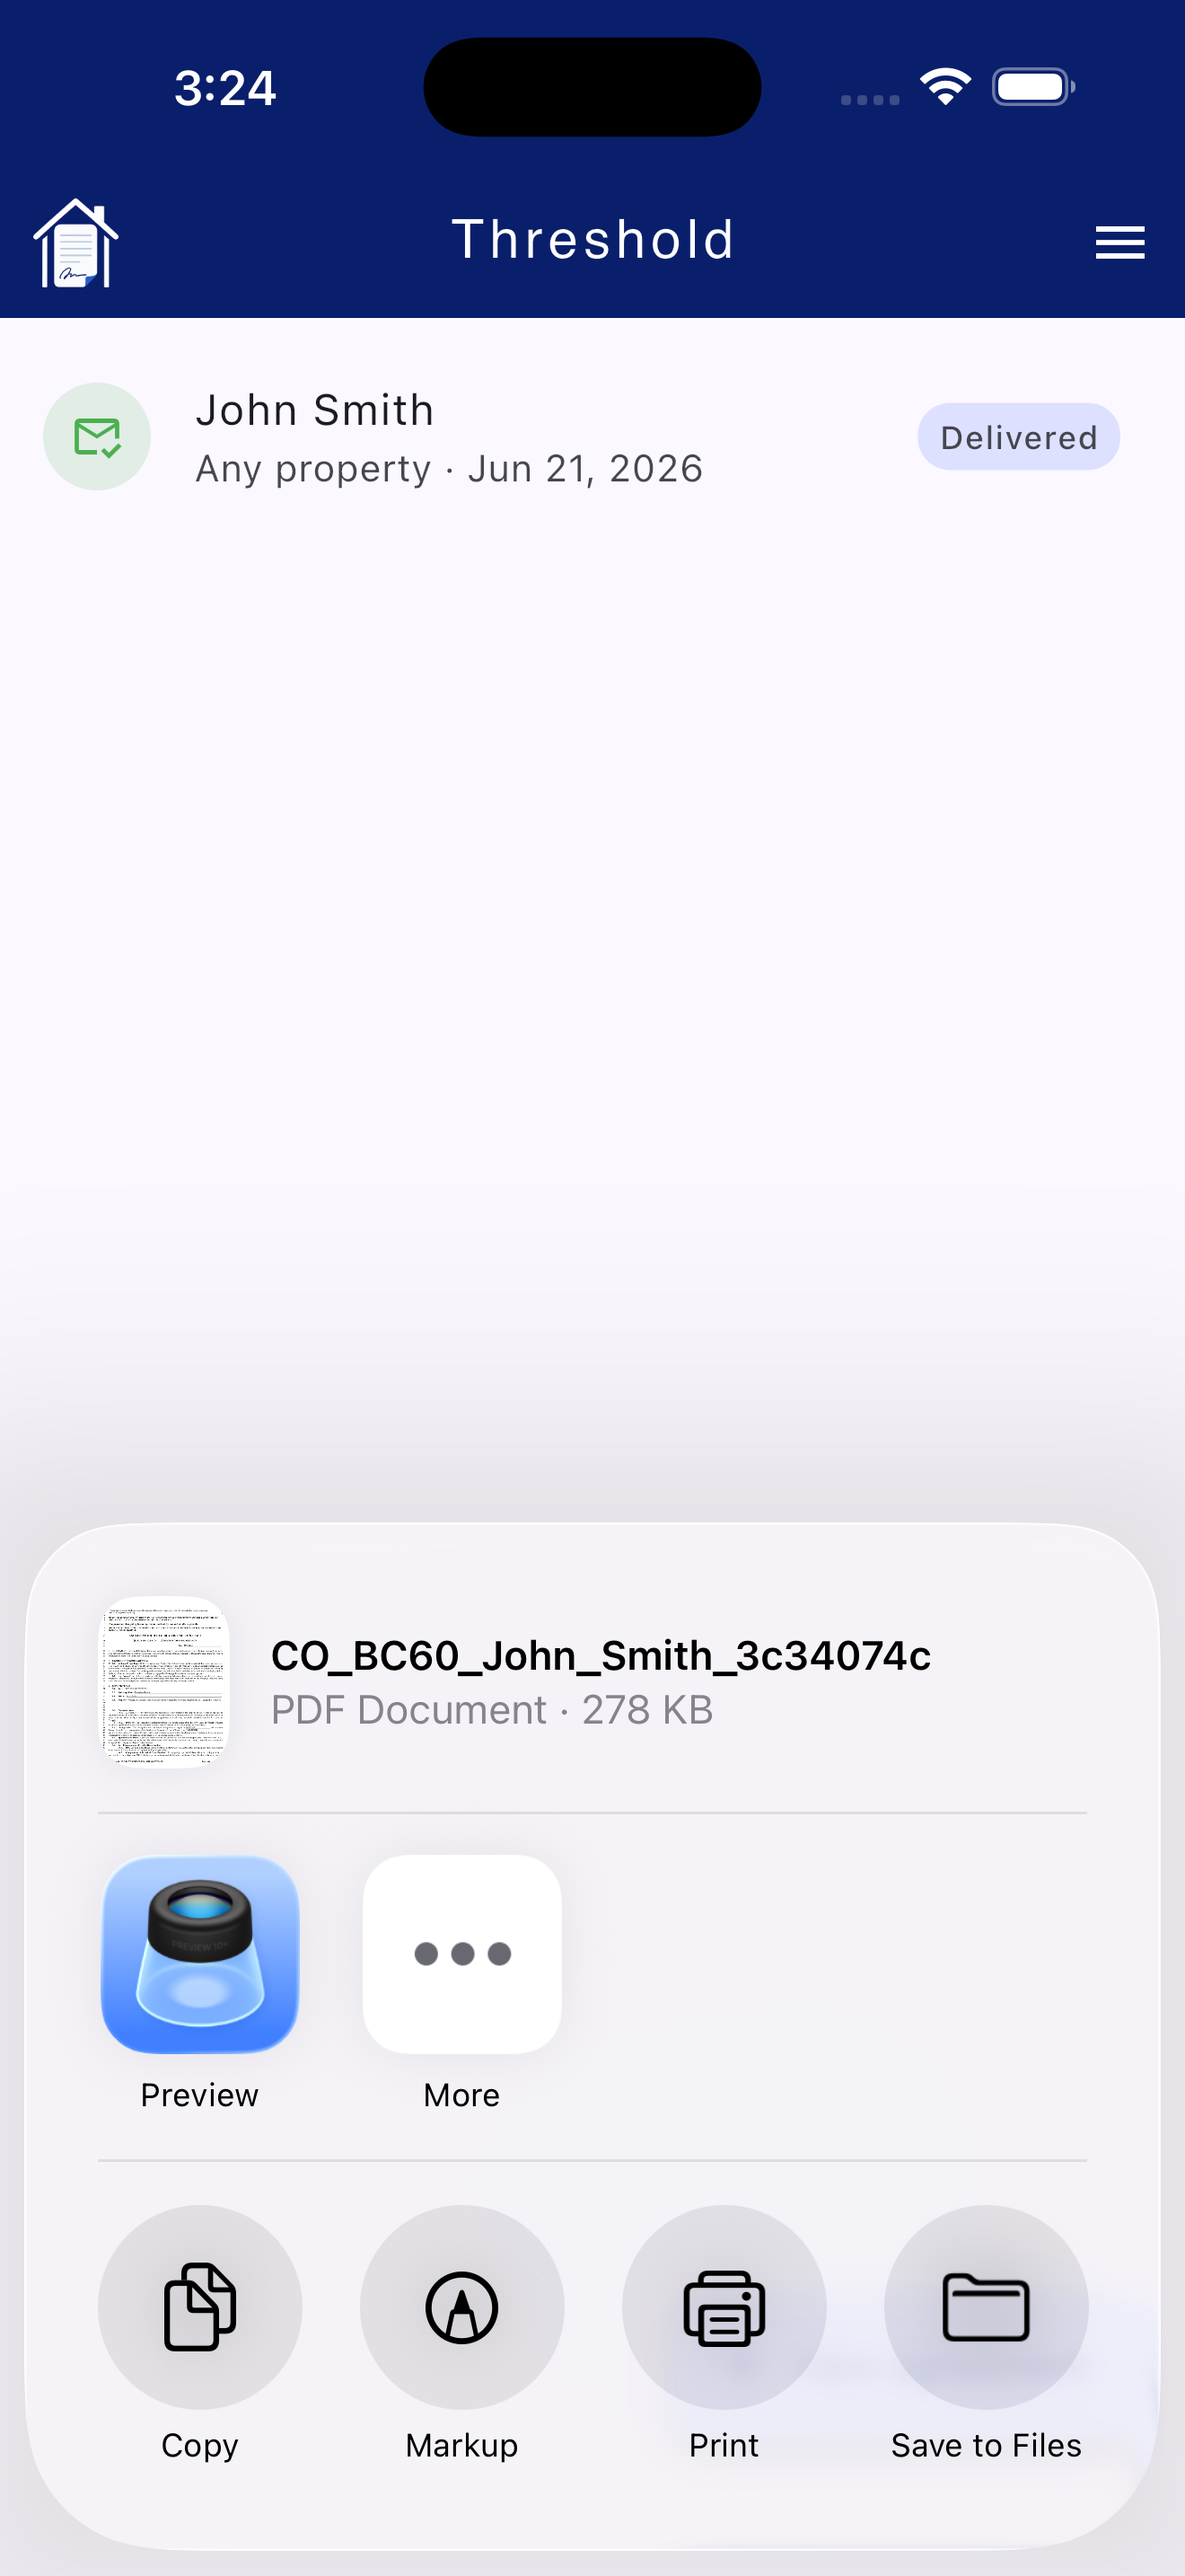
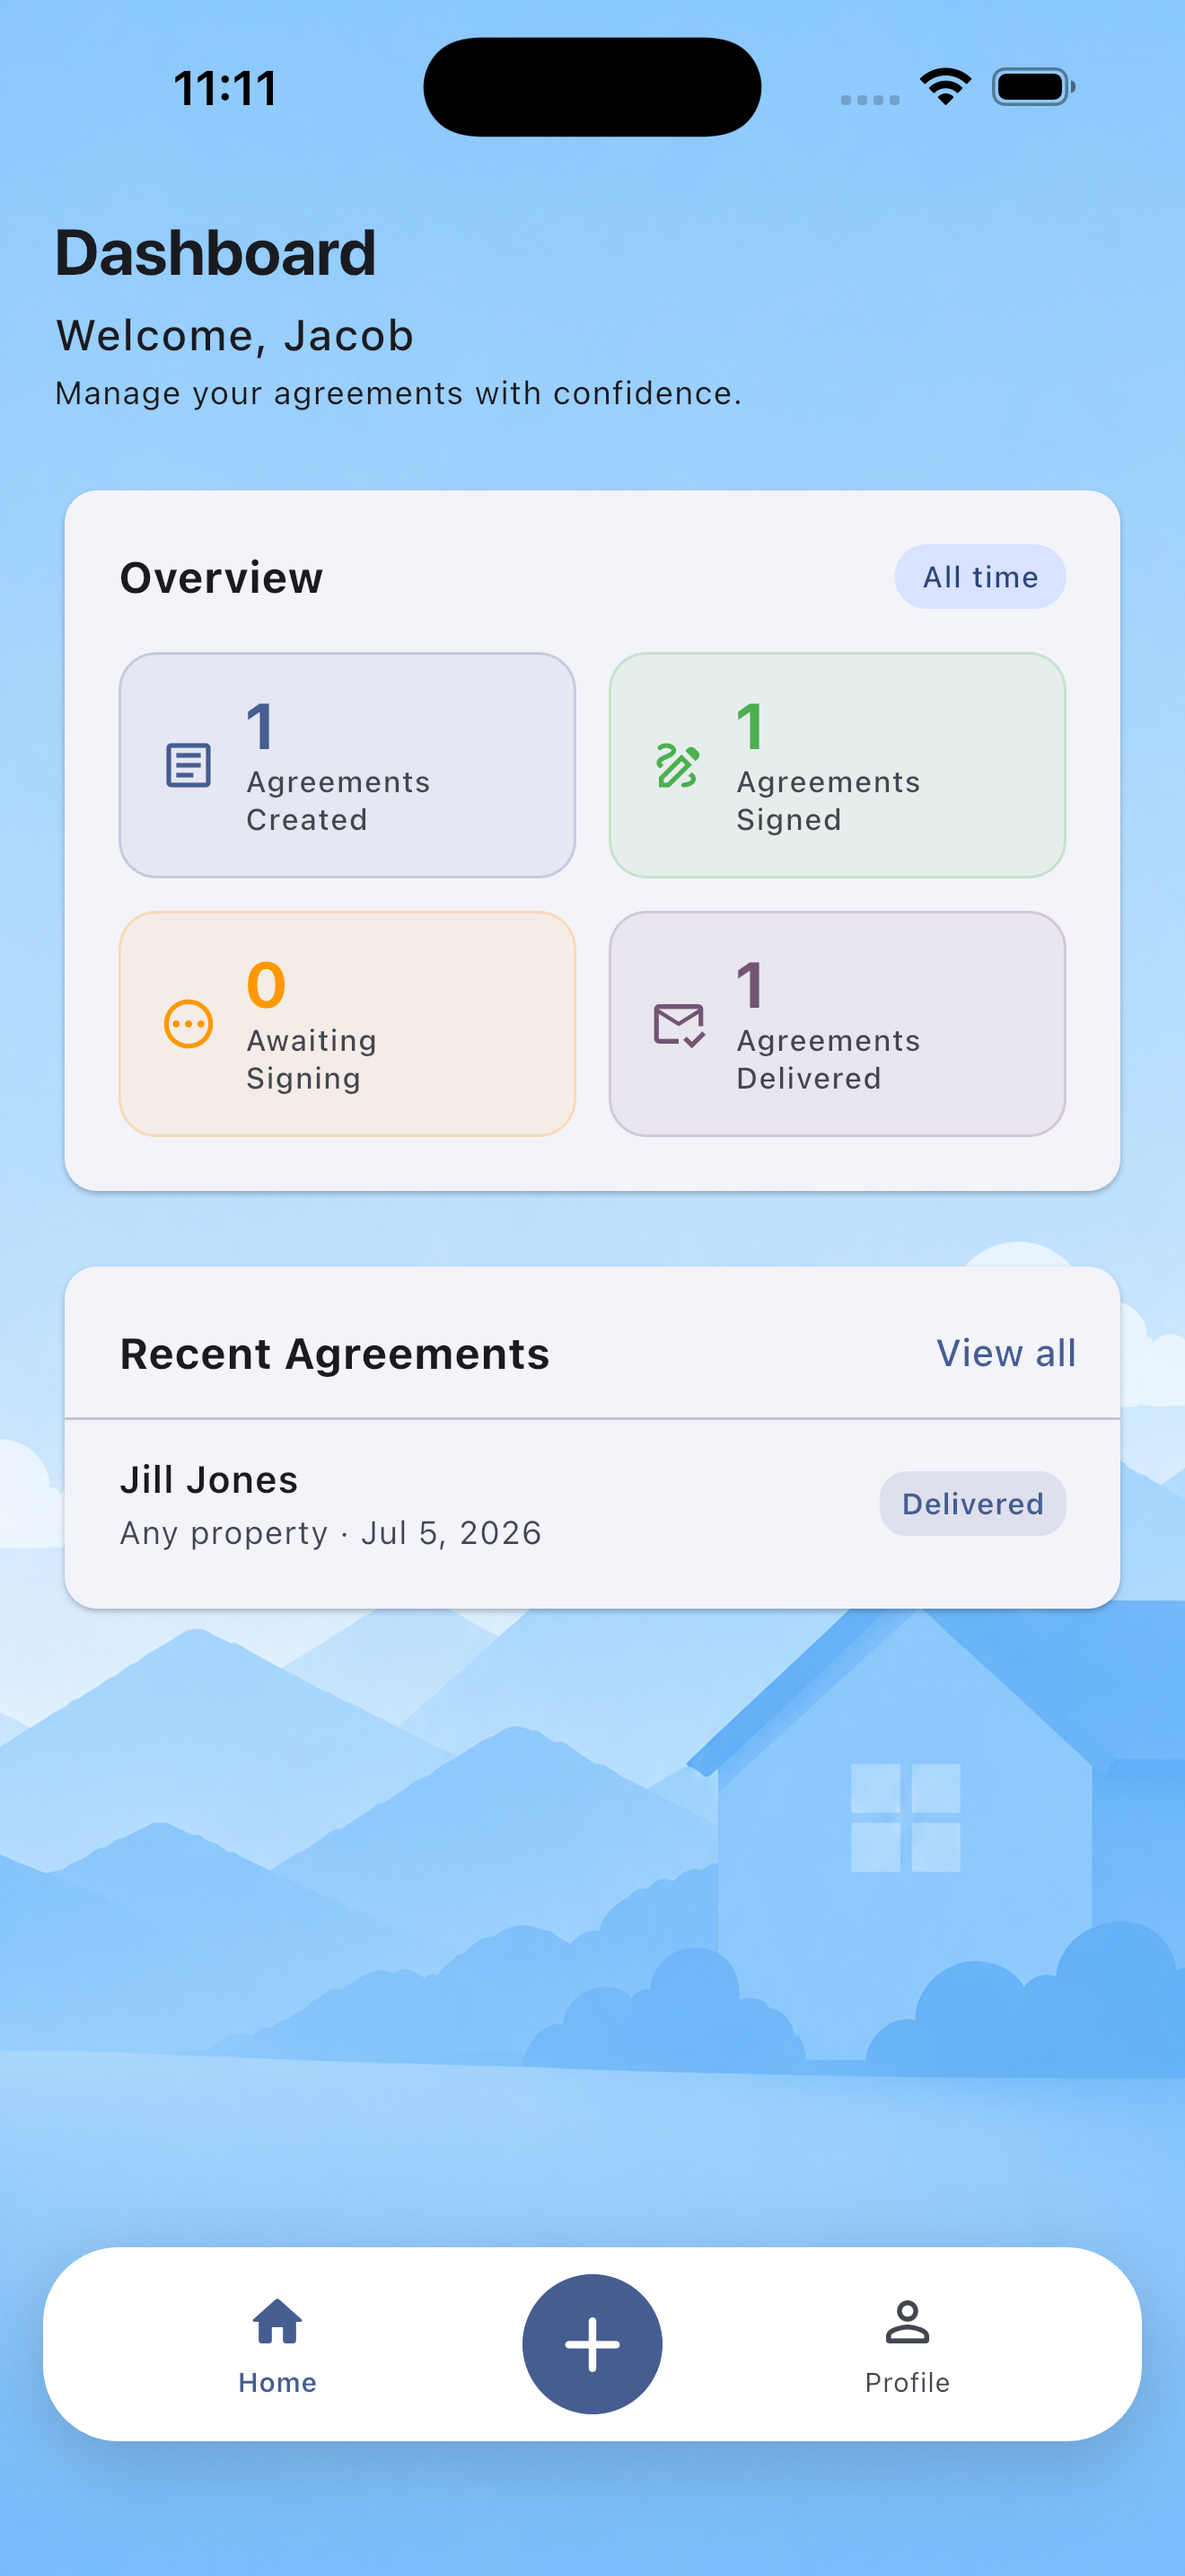
updating screenshots

diff --git a/threshold/index.html b/threshold/index.html
@@ -580,7 +580,7 @@
     <div class="screenshots-scroll">
       <div class="phone-frame">
         <div class="phone-shell">
-          <img src="/threshold/screenshots/agreements.png" alt="Agreements list with PDF share sheet" loading="lazy" />
+          <img src="/threshold/screenshots/agreements.png" alt="Dashboard with overview and link to all agreements" loading="lazy" />
         </div>
         <p class="phone-caption">Manage &amp; Share Agreements</p>
       </div>
